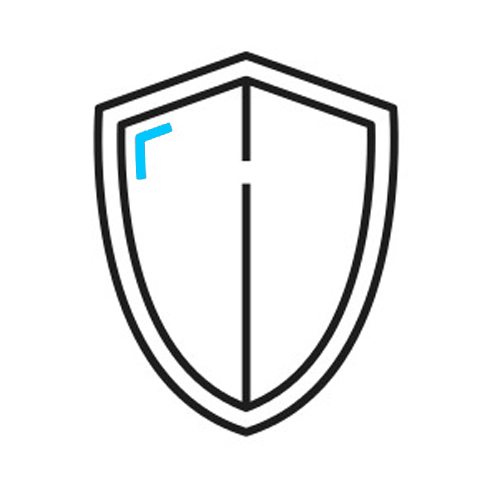
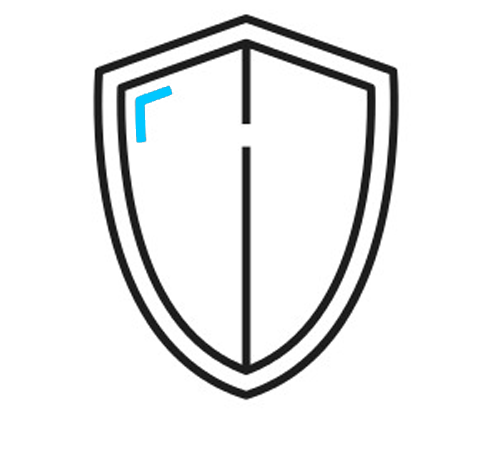
cleaned up typos and some images

Changed region(s): [[0.18, 0.0302, 0.81, 0.8769], [0.48, 0.2419, 0.51, 0.3931]]

diff --git a/src/shared/component/page/landing.jsx b/src/shared/component/page/landing.jsx
@@ -48,10 +48,10 @@ const LandingPage = () =>
 
       <div style={{ width: 550 }}>
         <h2 className="paraTitle" id="headerTwo"> Another line of defense against theft and loss. </h2>
-        <p className="text"> Just like your car or property title, a Solerus token proves that you and only you own the asset. In the case of theft or loss, you still retain the Solerus token. Your item can be reported missing on the blockchain, preventing others from reselling or purchasingyour item. </p>
+        <p className="text"> Just like your car or property title, a Solerus token proves that you and only you own the asset. In the case of theft or loss, you still retain the Solerus token. Your item can be reported missing on the blockchain, preventing others from reselling or purchasing your item. </p>
       </div>
 
-      <img className="imgContainer" id="imgRight" src="/static/images/shield.png" alt="" />
+      <img className="imgContainer" id="shield" src="/static/images/shield.png" alt="" />
 
     </div>
 

diff --git a/public/css/main.css b/public/css/main.css
@@ -50,6 +50,10 @@ src: url("InterUI/Inter-UI-Medium.woff") format("woff");
   margin-right: 20%;
 }
 
+#shield {
+  margin-right: 20%;
+}
+
 #imgLeft {
   margin-left: 20%;
 }
